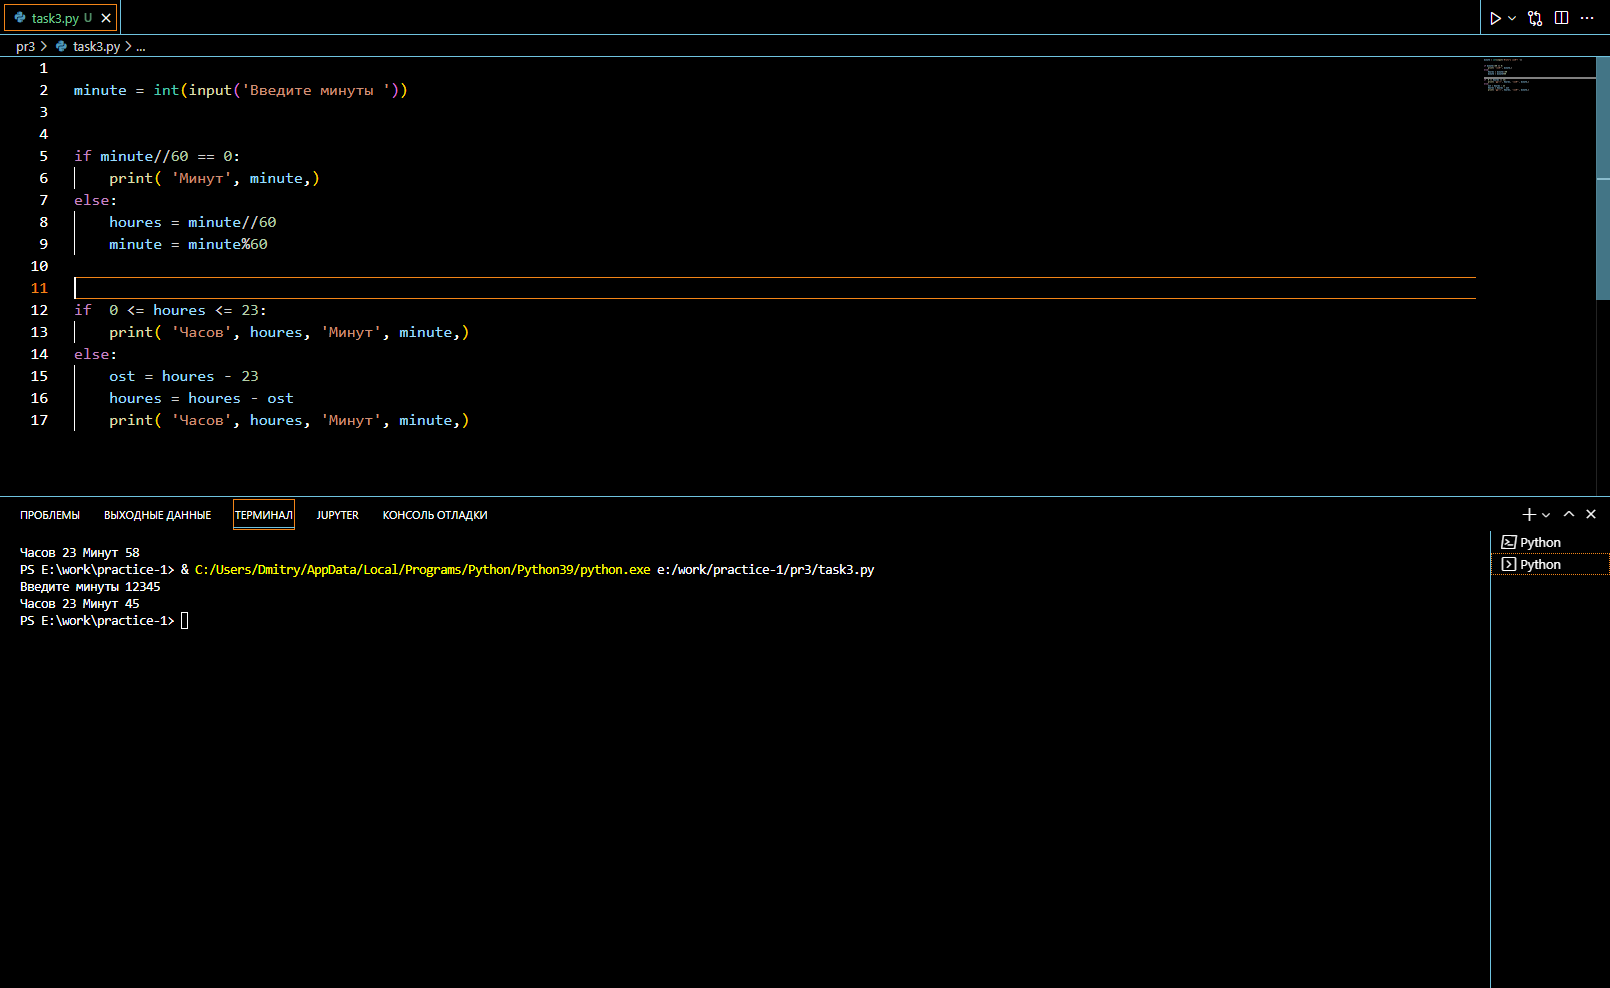
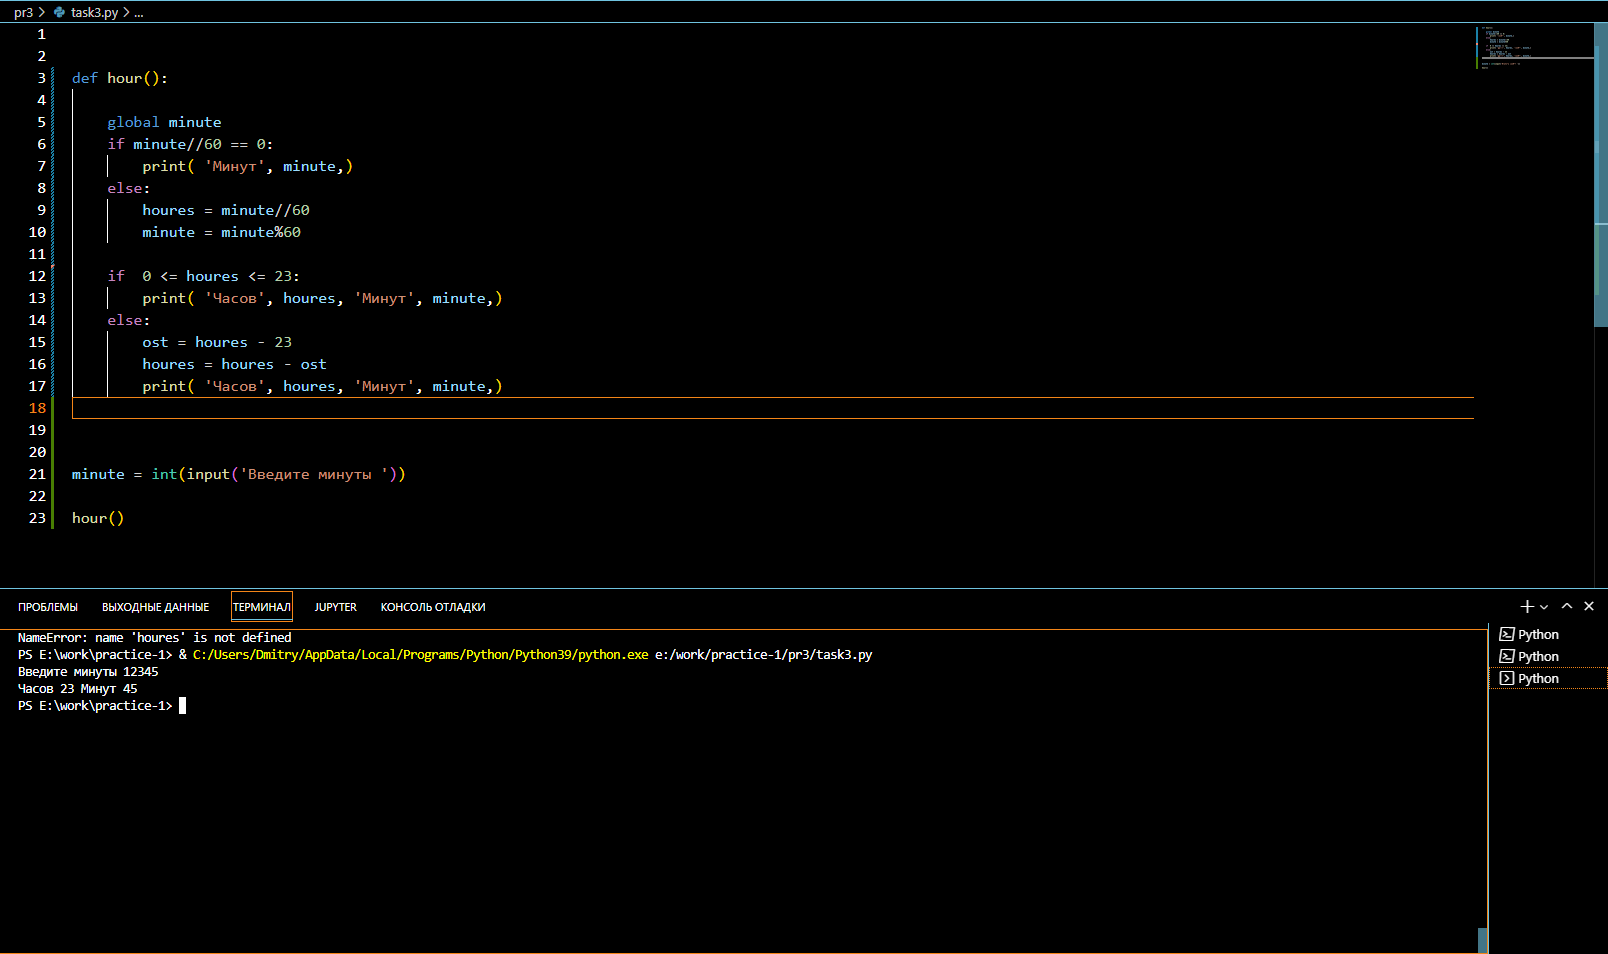
tal

diff --git a/pr3/task3.py b/pr3/task3.py
@@ -1,18 +1,23 @@
 
 
+def hour():
+    
+    global minute
+    if minute//60 == 0:
+        print( 'Минут', minute,)
+    else: 
+        houres = minute//60
+        minute = minute%60
+
+    if  0 <= houres <= 23:
+        print( 'Часов', houres, 'Минут', minute,)
+    else: 
+        ost = houres - 23
+        houres = houres - ost
+        print( 'Часов', houres, 'Минут', minute,)
+
+
+
 minute = int(input('Введите минуты '))
 
-
-if minute//60 == 0:
-    print( 'Минут', minute,)
-else: 
-    houres = minute//60
-    minute = minute%60
-    
-
-if  0 <= houres <= 23:
-    print( 'Часов', houres, 'Минут', minute,)
-else: 
-    ost = houres - 23
-    houres = houres - ost
-    print( 'Часов', houres, 'Минут', minute,)
+hour()

diff --git a/pr3/task5.py b/pr3/task5.py
@@ -1,3 +1,14 @@
+def func():
+	if (a < b) and (a < c):
+		
+		print(a)
+
+	elif (b < a) and (b < c): 
+		
+		print(b)
+
+	else: print(c)
+
 a = int(input('Введите '))
 
 
@@ -7,12 +18,5 @@ b = int(input('Введите '))
 c = int(input('Введите '))
 
 
-if (a < b) and (a < c):
-    
-	print(a)
 
-elif (b < a) and (b < c): 
-    
-	print(b)
-
-else: print(c)
+func()

diff --git a/pr3/task7.py b/pr3/task7.py
@@ -1,0 +1,9 @@
+
+def func():
+    if (year % 4 == 0) and (year % 100 != 0) or (year % 400 == 0):
+        print('Да')
+    else: print('Нет')
+
+year = int(input())
+
+func()

diff --git a/pr3/task8.py b/pr3/task8.py
@@ -1,0 +1,6 @@
+number1 = int(input('Число один '))
+number2 = int(input('Число два '))
+number3 = int(input('Число три '))
+
+
+
